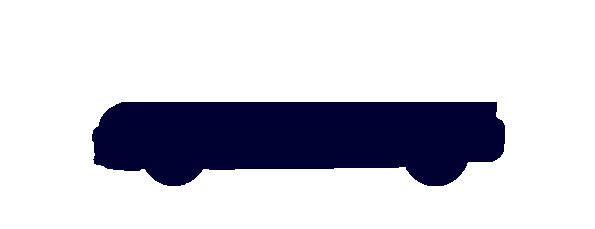
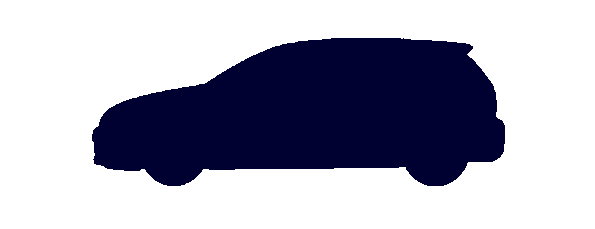
* created loaded car component to display how much it is filled

Changed region(s): [[0.2118, 0.1528, 0.8471, 0.4585]]

diff --git a/src/components/selectItems/LoadedCar.js b/src/components/selectItems/LoadedCar.js
@@ -1,0 +1,32 @@
+import React, { Component, PropTypes } from 'react'
+
+import styles from './loadedCar.css';
+
+/**
+ * loaded car
+ */
+class LoadedCar extends Component {
+
+  static propTypes = {
+    value: PropTypes.number
+  };
+
+  constructor() {
+    super();
+  }
+
+  render() {
+
+    const { value } = this.props;
+
+    return(
+      <div style={{position: 'relative', height: '120px', textAlign: 'center', width: '100%'}}>
+        <div>{value}% beladen...</div>
+        <div className={styles.base + ' ' + styles.fill} style={{width: '260px', height: value + 'px', zIndex: '2', margin: '0 auto'}}/>
+        <div className={styles.base + ' ' + styles.empty} style={{width: '260px', height: '100px', zIndex: '1', margin: '0 auto'}}/>
+      </div>
+    )
+  }
+}
+
+export default LoadedCar;

diff --git a/src/components/selectItems/loadedCar.css b/src/components/selectItems/loadedCar.css
@@ -1,0 +1,18 @@
+.base {
+  box-sizing: border-box;
+  max-height: 100px;
+  position: absolute;
+  bottom: 0;
+  left: calc((100% - 260px) / 2);
+  background-position: bottom;
+  background-size: cover;
+}
+
+.empty {
+  background-image: url(/assets/images/cars/empty.png);
+}
+
+.fill {
+  background-image: url(/assets/images/cars/fill.png);
+}
+

diff --git a/src/components/selectItems/index.js b/src/components/selectItems/index.js
@@ -1,1 +1,2 @@
 export { default as ItemSearch } from './ItemSearch';
+export { default as LoadedCar } from './LoadedCar';
